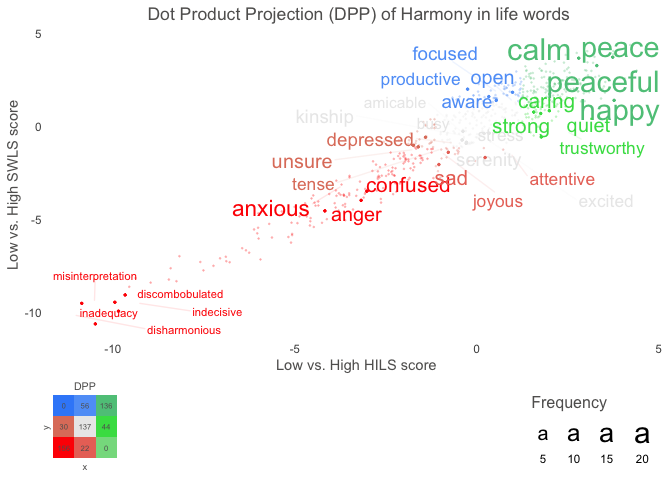
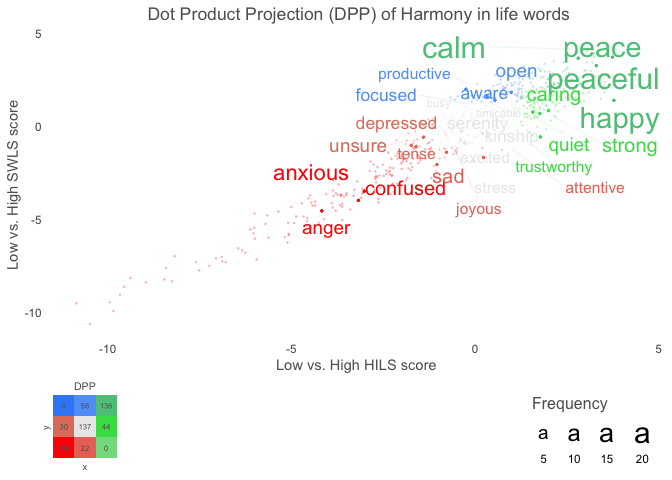
increase in version; fixed examples and tests.

diff --git a/README.md b/README.md
@@ -7,9 +7,8 @@
 
 [![Lifecycle:
 maturing](https://img.shields.io/badge/lifecycle-maturing-blue.svg)](https://www.tidyverse.org/lifecycle/#maturing)
-<!-- [![CRAN Status](https://www.r-pkg.org/badges/version/text)](https://cran.r-project.org/package=text) -->
-[![Github build
-status](https://github.com/oscarkjell/text/workflows/R-CMD-check/badge.svg)](https://github.com/oscarkjell/text/actions)
+<!-- [![CRAN Status](https://www.r-pkg.org/badges/version/text)](https://cran.r-project.org/package=text) 
+[![Github build status](https://github.com/oscarkjell/text/workflows/R-CMD-check/badge.svg)](https://github.com/oscarkjell/text/actions)-->
 [![codecov](https://codecov.io/gh/oscarkjell/text/branch/master/graph/badge.svg?token=IZI3IKCFYA)](https://codecov.io/gh/oscarkjell/text)
 
 [![Project Status: Active – The project has reached a stable, usable
@@ -85,7 +84,7 @@ multilingual BERT comprises *104 different languages*.
 | :----------------------------- | :--------------------------------------------------------------- | :----- | :--------- | :----------------------------------------------------------------------------------- |
 | ‘bert-base-uncased’            | [Devlin et al. 2019](https://www.aclweb.org/anthology/N19-1423/) | 12     | 768        | English                                                                              |
 | ‘roberta-base’                 | [Liu et al. 2019](https://arxiv.org/abs/1907.11692)              | 12     | 768        | English                                                                              |
-| ‘distilbert-base-cased’        | [Sahn et al., 2019](https://arxiv.org/abs/1910.01108)            | 6?     | 768?       | English                                                                              |
+| ‘distilbert-base-cased’        | [Sahn et al., 2019](https://arxiv.org/abs/1910.01108)            | 6      | 768        | English                                                                              |
 | ‘bert-base-multilingual-cased’ | [Devlin et al. 2019](https://www.aclweb.org/anthology/N19-1423/) | 12     | 768        | [104 top languages at Wikipedia](https://meta.wikimedia.org/wiki/List_of_Wikipedias) |
 | ‘xlm-roberta-large’            | [Liu et al](https://arxiv.org/pdf/1907.11692.pdf)                | 24     | 1024       | [100 language](https://huggingface.co/transformers/multilingual.html)                |
 
@@ -101,11 +100,10 @@ numerical variables. An example is functions plotting statistically
 significant words in the word embedding space.
 
 ``` r
-library(text)
+library(text) 
 # Use data (DP_projections_HILS_SWLS_100) that have been pre-processed with the textProjectionData function; the preprocessed test-data included in the package is called: DP_projections_HILS_SWLS_100
 plot_projection <- textProjectionPlot(
   word_data = DP_projections_HILS_SWLS_100,
-  x_axes = TRUE,
   y_axes = TRUE,
   title_top = " Dot Product Projection (DPP) of Harmony in life words",
   x_axes_label = "Low vs. High HILS score",
@@ -114,6 +112,32 @@ plot_projection <- textProjectionPlot(
   position_jitter_width = 0.8
 )
 plot_projection
+#> $final_plot
 ```
 
 <img src="man/figures/README-DPP_plot-1.png" width="100%" />
+
+    #> 
+    #> $processed_word_data
+    #> # A tibble: 583 x 32
+    #>    words    dot.x p_values_dot.x n_g1.x n_g2.x  dot.y p_values_dot.y n_g1.y
+    #>    <chr>    <dbl>          <dbl>  <dbl>  <dbl>  <dbl>          <dbl>  <dbl>
+    #>  1 able   6.86e-1     0.194          NA      1  2.31      0.0123         NA
+    #>  2 acce…  1.52e+0     0.0272         -1      2  1.15      0.0620         -1
+    #>  3 acco…  2.14e+0     0.00856        NA      1  3.51      0.00273        NA
+    #>  4 acti…  1.23e+0     0.0503         NA      1  1.56      0.0361         NA
+    #>  5 adap… -3.87e-4     0.969          -1     NA  0.331     0.476          -1
+    #>  6 admi…  5.14e-1     0.315          NA      1  1.52      0.0398         NA
+    #>  7 adri… -3.79e+0     0.00000100     -1     NA -3.60      0.00000100     -1
+    #>  8 affi…  7.49e-1     0.150          NA      1  2.04      0.0184         NA
+    #>  9 agre…  2.23e+0     0.00626        NA      1  1.69      0.0312         NA
+    #> 10 alco… -5.51e-1     0.318          -1     NA -1.07      0.0605         -1
+    #> # … with 573 more rows, and 24 more variables: n_g2.y <dbl>, n <int>,
+    #> #   n.percent <dbl>, N_participant_responses <int>, adjusted_p_values.x <dbl>,
+    #> #   adjusted_p_values.y <dbl>, square_categories <dbl>, check_p_square <dbl>,
+    #> #   check_p_x_neg <dbl>, check_p_x_pos <dbl>, check_extreme_max_x <dbl>,
+    #> #   check_extreme_min_x <dbl>, check_extreme_frequency_x <dbl>,
+    #> #   check_middle_x <dbl>, extremes_all_x <dbl>, check_p_y_pos <dbl>,
+    #> #   check_p_y_neg <dbl>, check_extreme_max_y <dbl>, check_extreme_min_y <dbl>,
+    #> #   check_extreme_frequency_y <dbl>, check_middle_y <dbl>,
+    #> #   extremes_all_y <dbl>, extremes_all <dbl>, colour_categories <chr>
